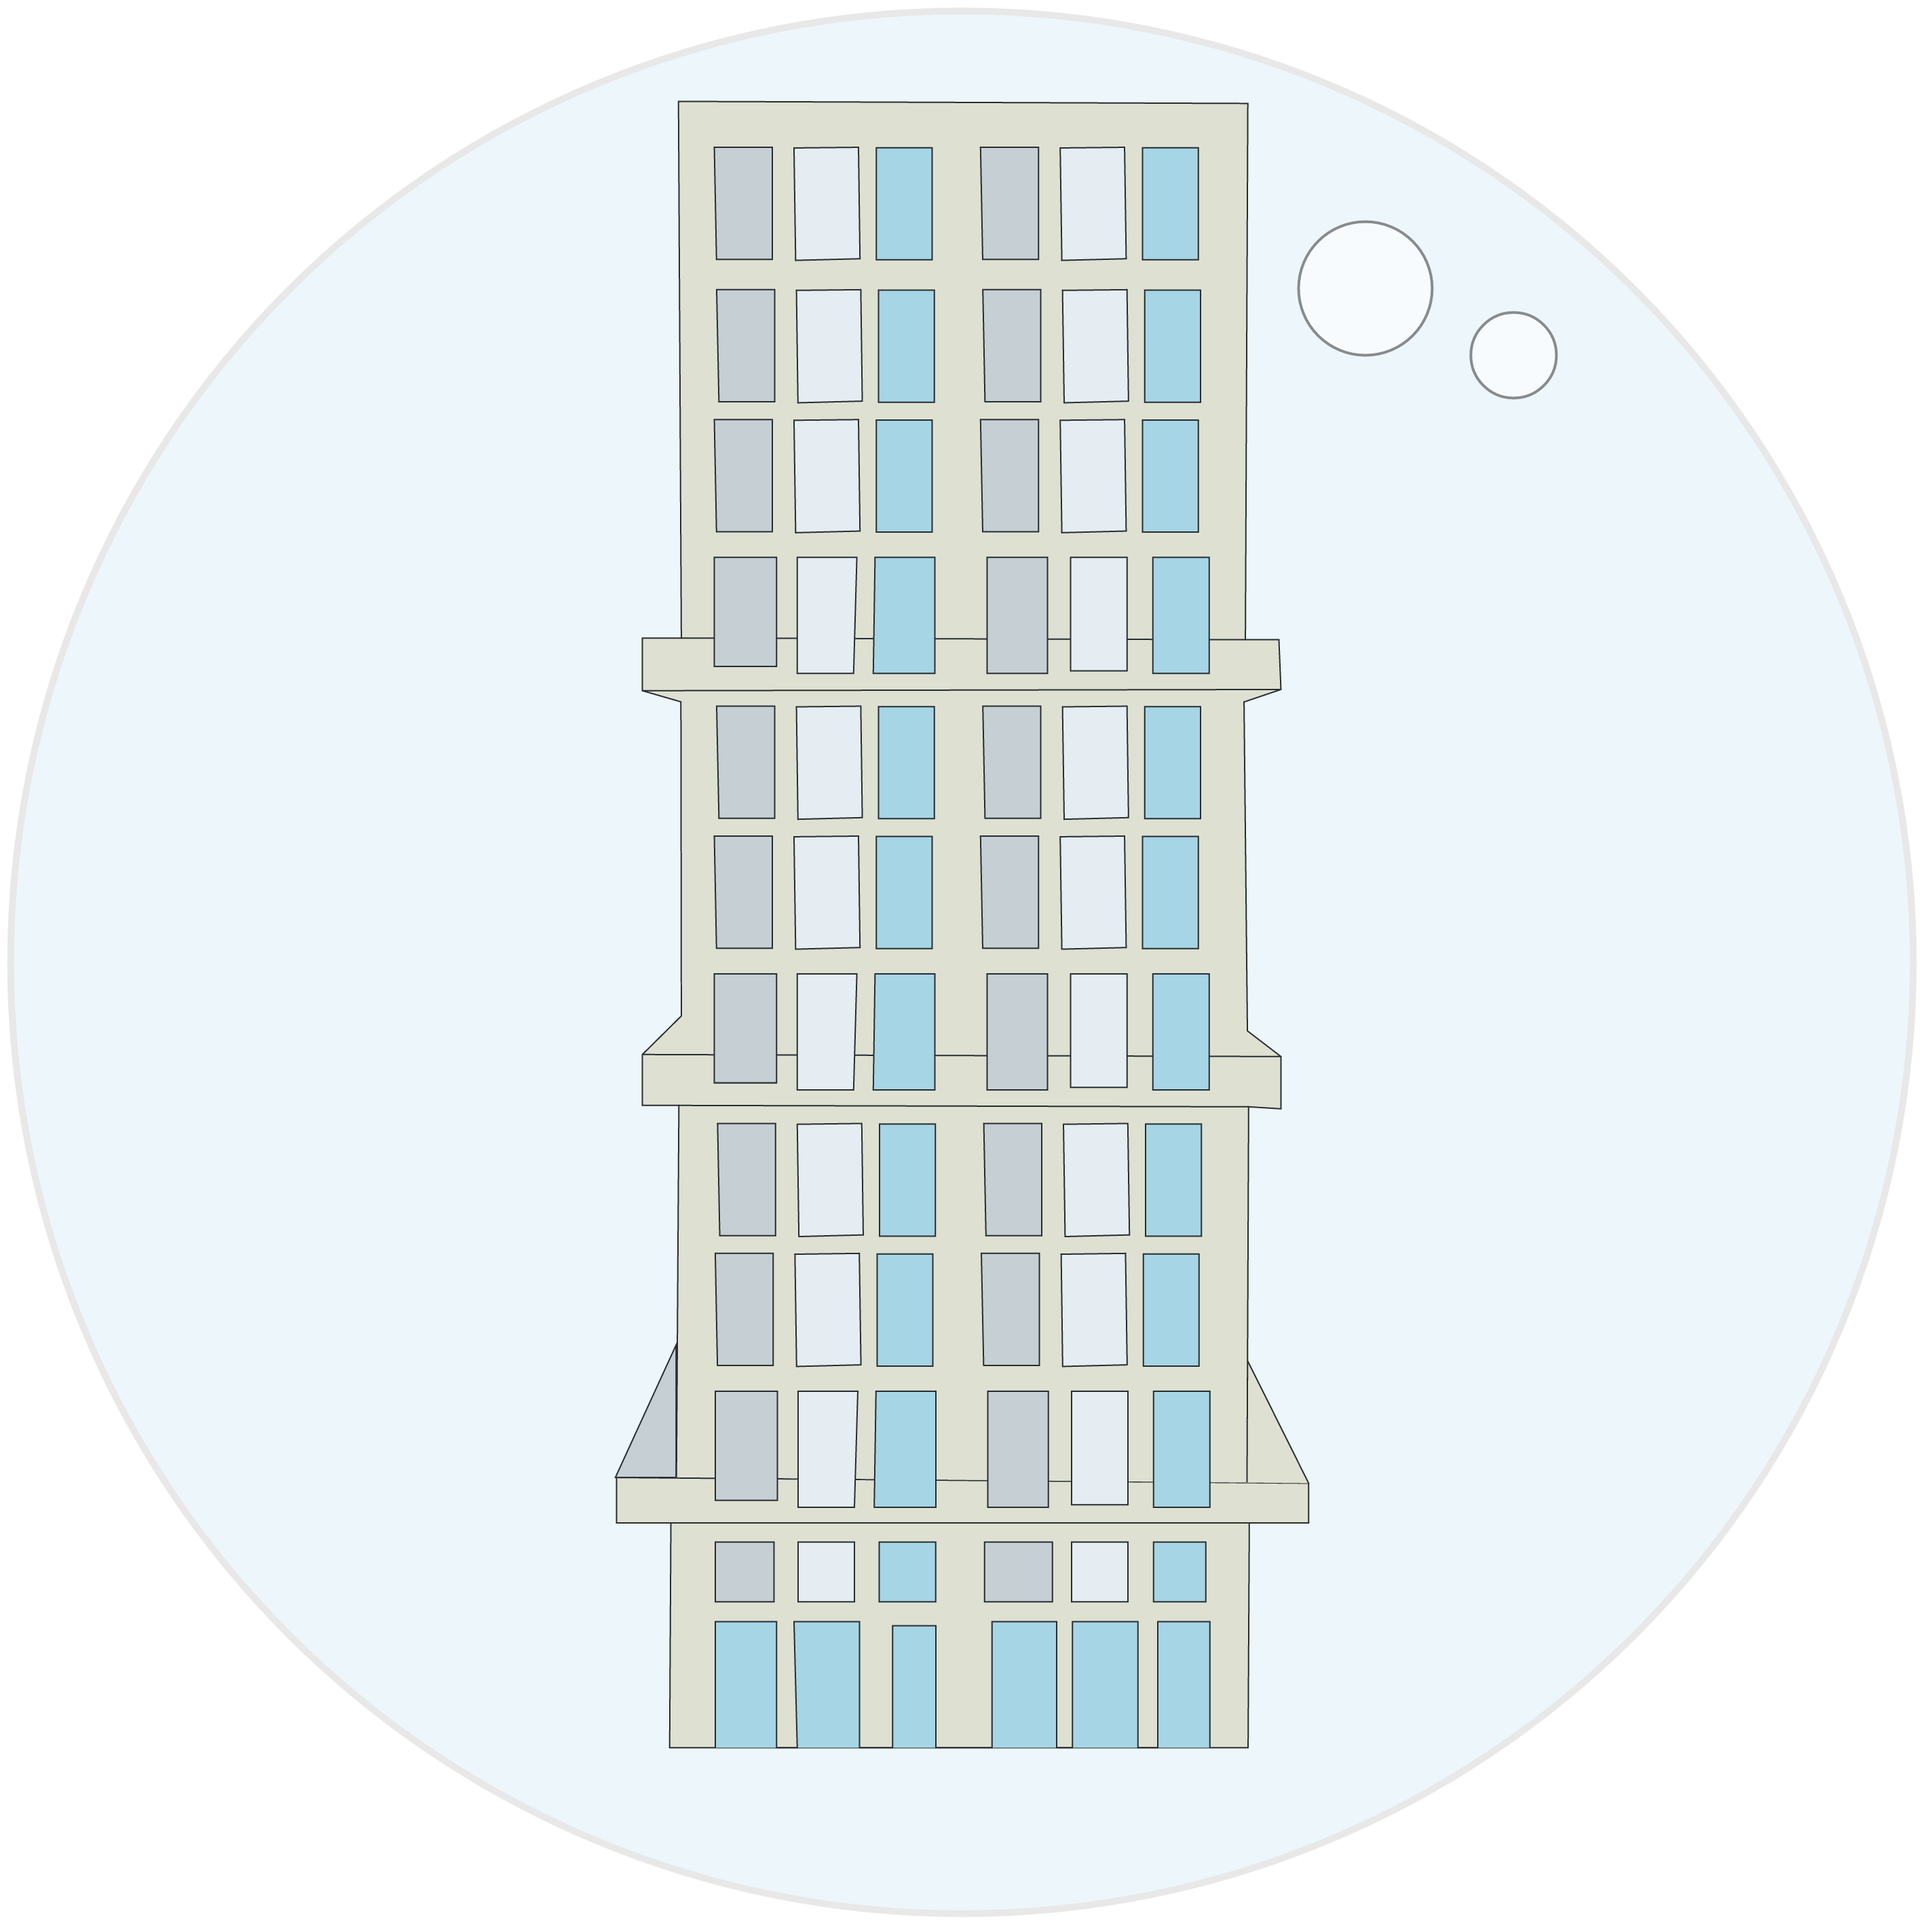
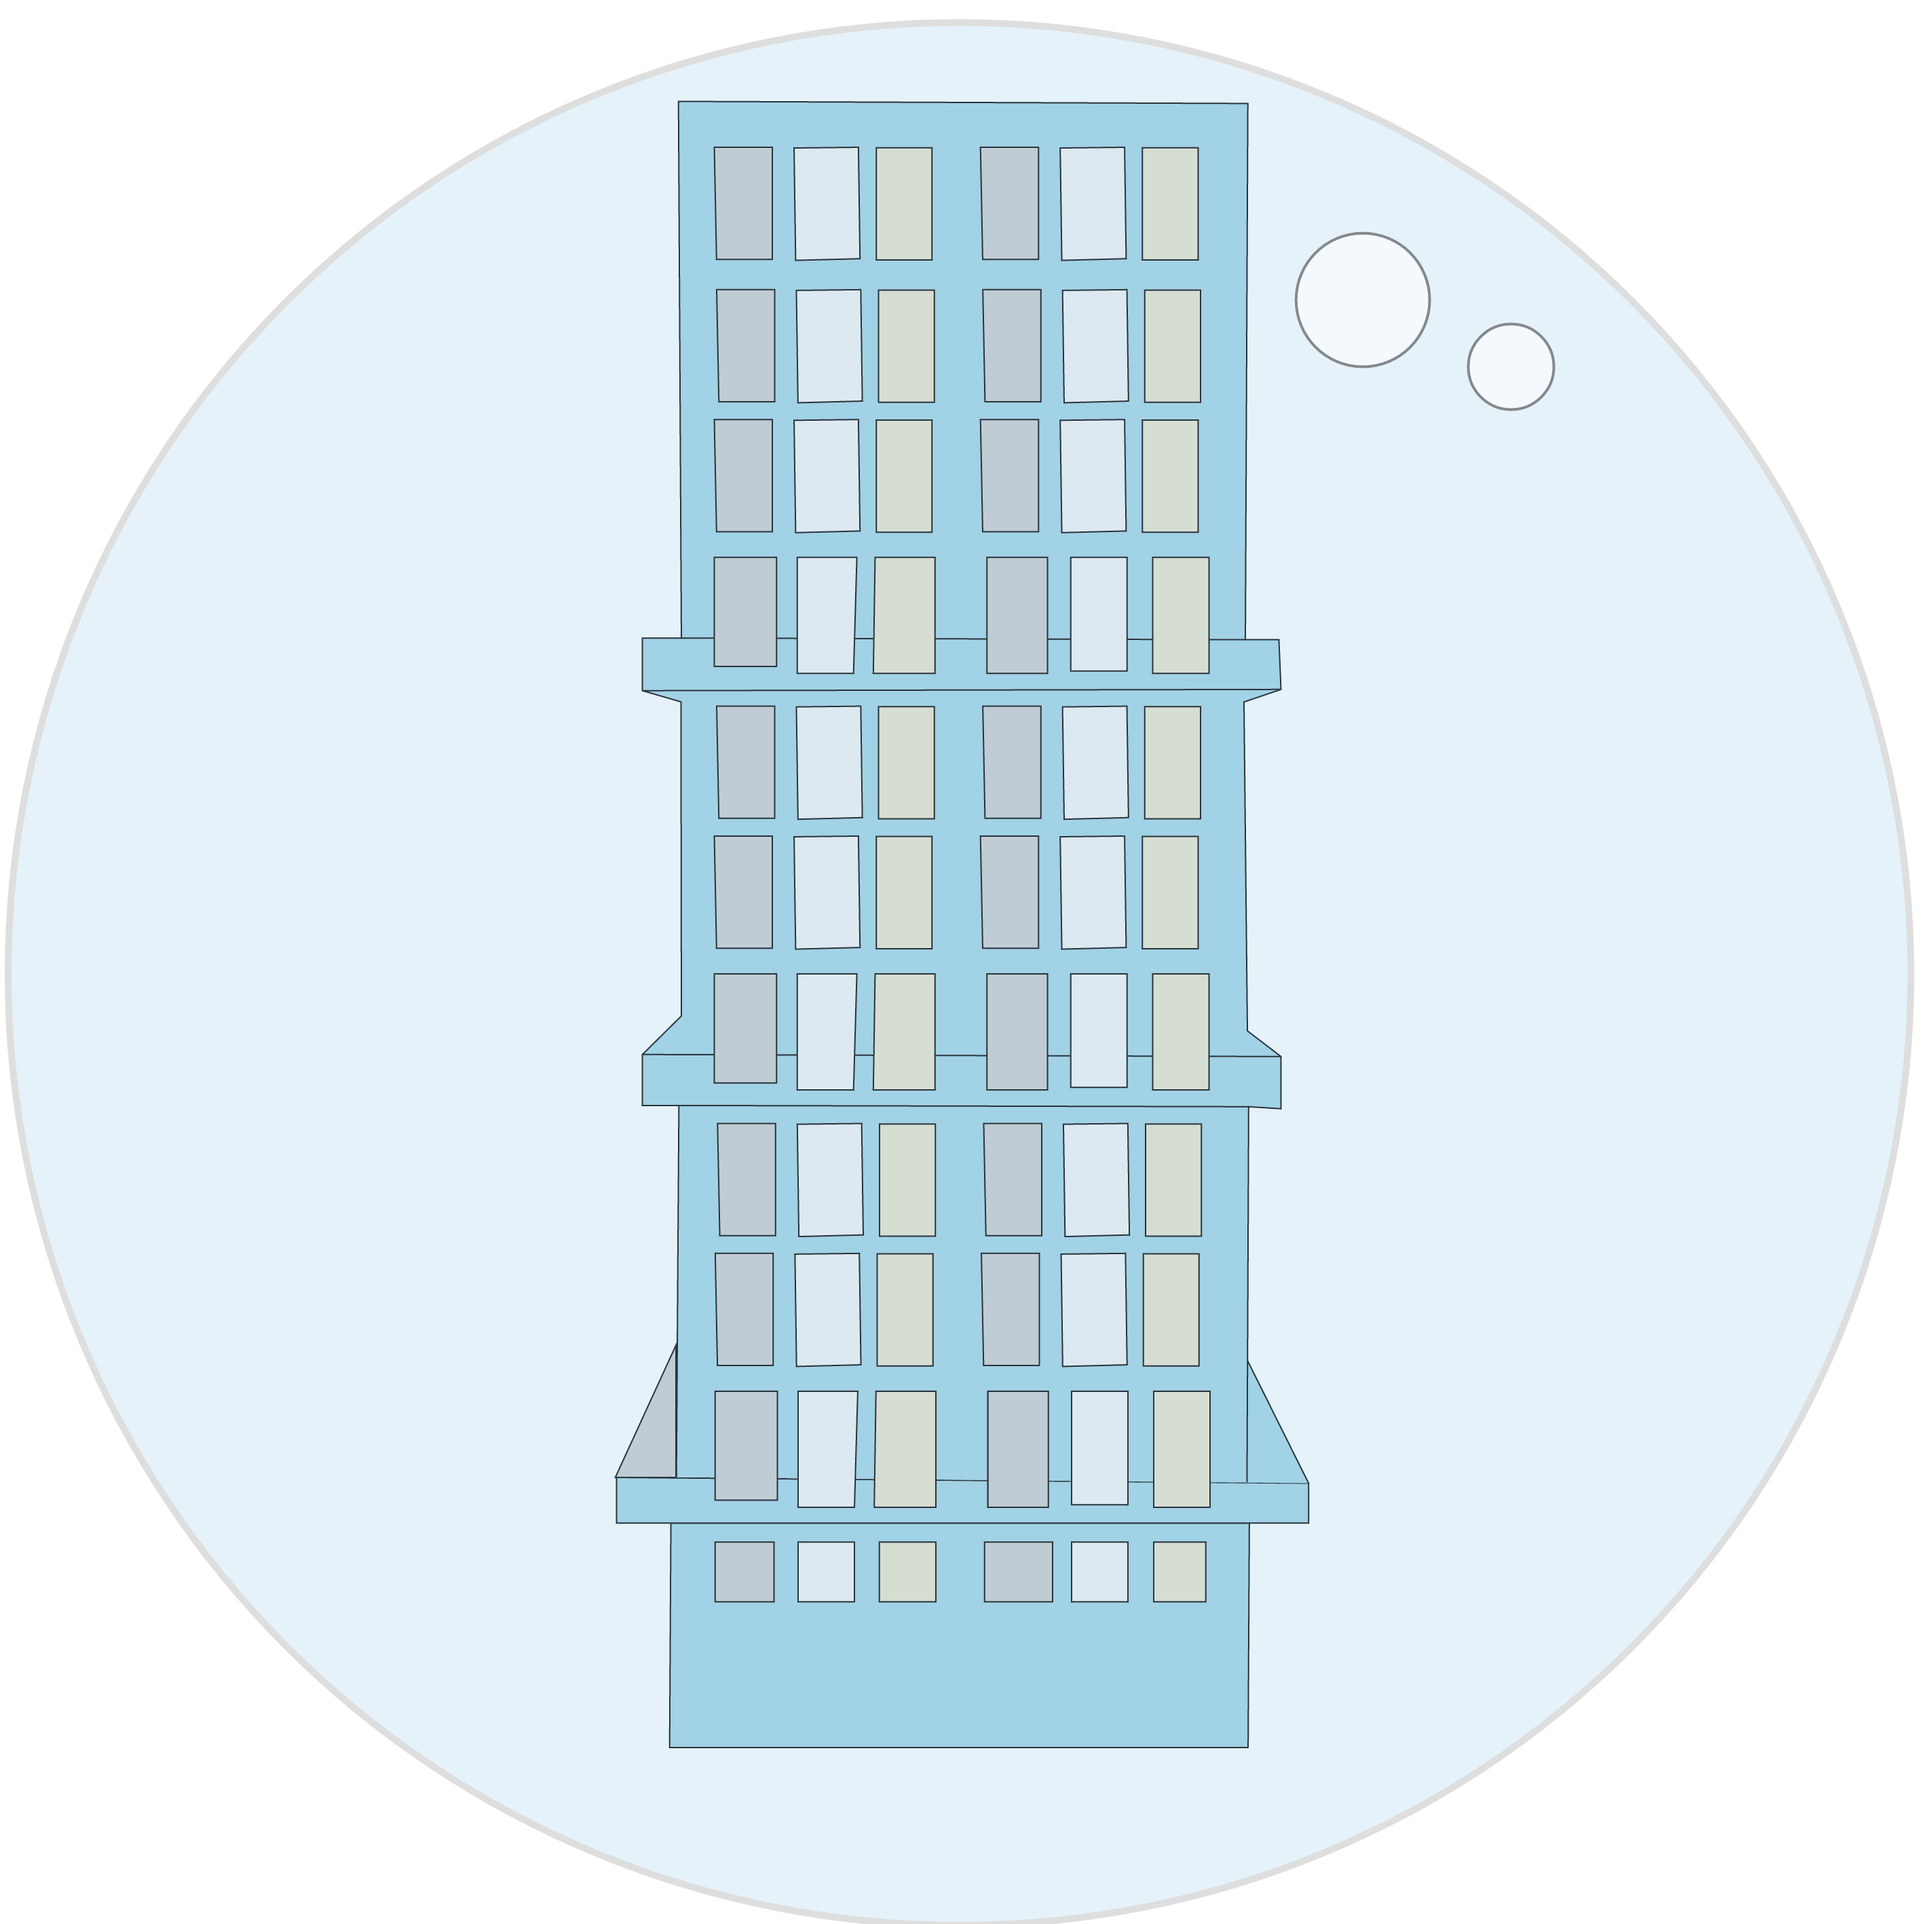
final commit

diff --git a/src/main.ts b/src/main.ts
@@ -21,20 +21,20 @@ const THEME_DATA: Record<Theme, Themeconfig> = {
 };
 
 const fruits: Fruit[] = [
-  { name: "fruit1", radius: 30 },
-  { name: "fruit2", radius: 35 },
-  { name: "fruit3", radius: 40 },
-  { name: "fruit4", radius: 50 },
-  { name: "fruit5", radius: 65 },
-  { name: "fruit6", radius: 70 },
-  { name: "fruit7", radius: 80 },
-  { name: "fruit8", radius: 90 },
+  { name: "fruit1", radius: 45 },
+  { name: "fruit2", radius: 55 },
+  { name: "fruit3", radius: 70 },
+  { name: "fruit4", radius: 85 },
+  { name: "fruit5", radius: 100 },
+  { name: "fruit6", radius: 120 },
+  { name: "fruit7", radius: 140 },
+  { name: "fruit8", radius: 170 },
 ];
 
-const PLAY_WIDTH = 550;
+const PLAY_WIDTH = 700;
 const PANEL_WIDTH = 400;
 const TOTAL_WIDTH = PLAY_WIDTH + PANEL_WIDTH;
-const GAME_HEIGHT = 1000;
+const GAME_HEIGHT = 1100;
 const WALL_MARGIN = 65;
 
 class Main extends Phaser.Scene {
@@ -157,7 +157,7 @@ class Main extends Phaser.Scene {
 
   updateNextFruitPanel(fruit: Fruit) {
     this.nextFruit = fruit;
-    const size = Math.min(fruit.radius * 2, 140);
+    const size = Math.min(fruit.radius * 2, 180);
     this.nextFruitImage
       .setTexture(fruit.name)
       .setDisplaySize(size, size);
@@ -255,18 +255,43 @@ class Main extends Phaser.Scene {
     );
     this.group = this.add.group();
 
+    const wallStyle = { color: 0x444466, alpha: 1 };
+
+    this.add.rectangle(
+        WALL_MARGIN / 2, 
+        GAME_HEIGHT / 2, 
+        WALL_MARGIN, 
+        GAME_HEIGHT, 
+        wallStyle.color, 
+        wallStyle.alpha).setDepth(1);
+
+    this.add.rectangle(
+        PLAY_WIDTH - (WALL_MARGIN / 2), 
+        GAME_HEIGHT / 2, 
+        WALL_MARGIN, 
+        GAME_HEIGHT, 
+        wallStyle.color, 
+        wallStyle.alpha).setDepth(1);
+
+    this.add.rectangle(
+        PLAY_WIDTH / 2, 
+        GAME_HEIGHT - 5, 
+        PLAY_WIDTH, 
+        10, 
+        wallStyle.color).setDepth(1);
+
     const light = this.lights
       .addLight(this.input.activePointer.x, this.input.activePointer.y, 1000, 0x99ffff, 0.75)
       .setScrollFactor(0);
     this.lights.enable().setAmbientColor(0xdddddd);
 
     const emitter = this.add.particles(0, 0, fruits[0].name, {
-      lifespan: 1000,
-      speed: { min: 200, max: 350 },
-      scale: { start: 0.1, end: 0 },
+      lifespan: 600,
+      speed: { min: 150, max: 250 },
+      scale: { start: 0.05, end: 0 },
       rotate: { start: 0, end: 360 },
       alpha: { start: 1, end: 0 },
-      gravityY: 200,
+      gravityY: 400,
       emitting: false,
     });
 
@@ -444,23 +469,25 @@ class Main extends Phaser.Scene {
       light.setPosition(pointer.x, pointer.y);
     });
 
-    this.input.on("pointerup", () => {
+    this.input.on("pointerup", (pointer: Phaser.Input.Pointer) => {
       if (!this.dropper.visible || this.gameOver) return;
 
-      this.dropper.setVisible(false);
-      this.time.delayedCall(500, () => this.dropper.setVisible(!this.gameOver));
+      const isInsideGameZone = pointer.x > WALL_MARGIN && pointer.x < (PLAY_WIDTH - WALL_MARGIN);
 
-      const currentFruit = fruits.find((f) => f.name === this.dropper.name)!;
-      const gameObject = this.addFruit(this.dropper.x, this.dropper.y, currentFruit);
-      this.group.add(gameObject);
+      if (isInsideGameZone) {
+        this.dropper.setVisible(false);
+        this.time.delayedCall(500, () => this.dropper.setVisible(!this.gameOver));
 
-      const upcoming = this.nextFruit;
-      this.updateDropper(upcoming);
+        const currentFruit = fruits.find((f) => f.name === this.dropper.name)!;
+        const gameObject = this.addFruit(this.dropper.x, this.dropper.y, currentFruit);
+        this.group.add(gameObject);
 
-      const newNext = this.canChooseNextFruit
-        ? this.nextFruitChoice
-        : this.getRandomDropFruit();
-      this.updateNextFruitPanel(newNext);
+        const upcoming = this.nextFruit;
+        this.updateDropper(upcoming);
+
+        const newNext = this.canChooseNextFruit ? this.nextFruitChoice : this.getRandomDropFruit();
+        this.updateNextFruitPanel(newNext);
+      }
     });
 
     this.matter.world.on(
@@ -505,7 +532,6 @@ class Main extends Phaser.Scene {
       strokeThickness: 10,
     }).setOrigin(0.5).setDepth(11).setVisible(false);
 
-// Un petit effet de "battement" pour le rendre plus dynamique
     this.tweens.add({
         targets: this.loseText,
         scale: 1.1,
